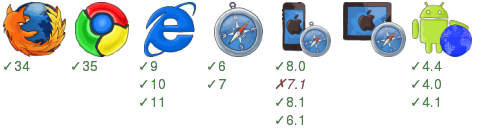
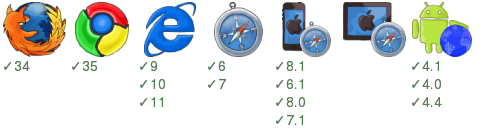
Auto commit smoke test results for f7070cbe0b5886cb393fb0611cc77f8848bf5fc6 [ci skip]

diff --git a/examples/00hello/badge.html b/examples/00hello/badge.html
@@ -28,16 +28,16 @@ div{vertical-align:top;overflow:hidden;display:inline-block;width:92px;padding:4
 <p>&#x2713;7</p>
 </div><div>
 <img src="/home/travis/build/zordius/fluxex/examples/00hello/node_modules/badge-render/browser-badge/static/iphone.png" />
-<p>&#x2713;8.0</p>
-<i>&#x2717;7.1</i>
 <p>&#x2713;8.1</p>
 <p>&#x2713;6.1</p>
+<p>&#x2713;8.0</p>
+<p>&#x2713;7.1</p>
 </div><div>
 <img src="/home/travis/build/zordius/fluxex/examples/00hello/node_modules/badge-render/browser-badge/static/ipad.png" />
 </div><div>
 <img src="/home/travis/build/zordius/fluxex/examples/00hello/node_modules/badge-render/browser-badge/static/android-browser.png" />
-<p>&#x2713;4.4</p>
-<p>&#x2713;4.0</p>
 <p>&#x2713;4.1</p>
+<p>&#x2713;4.0</p>
+<p>&#x2713;4.4</p>
 </div></body>
 </html>
